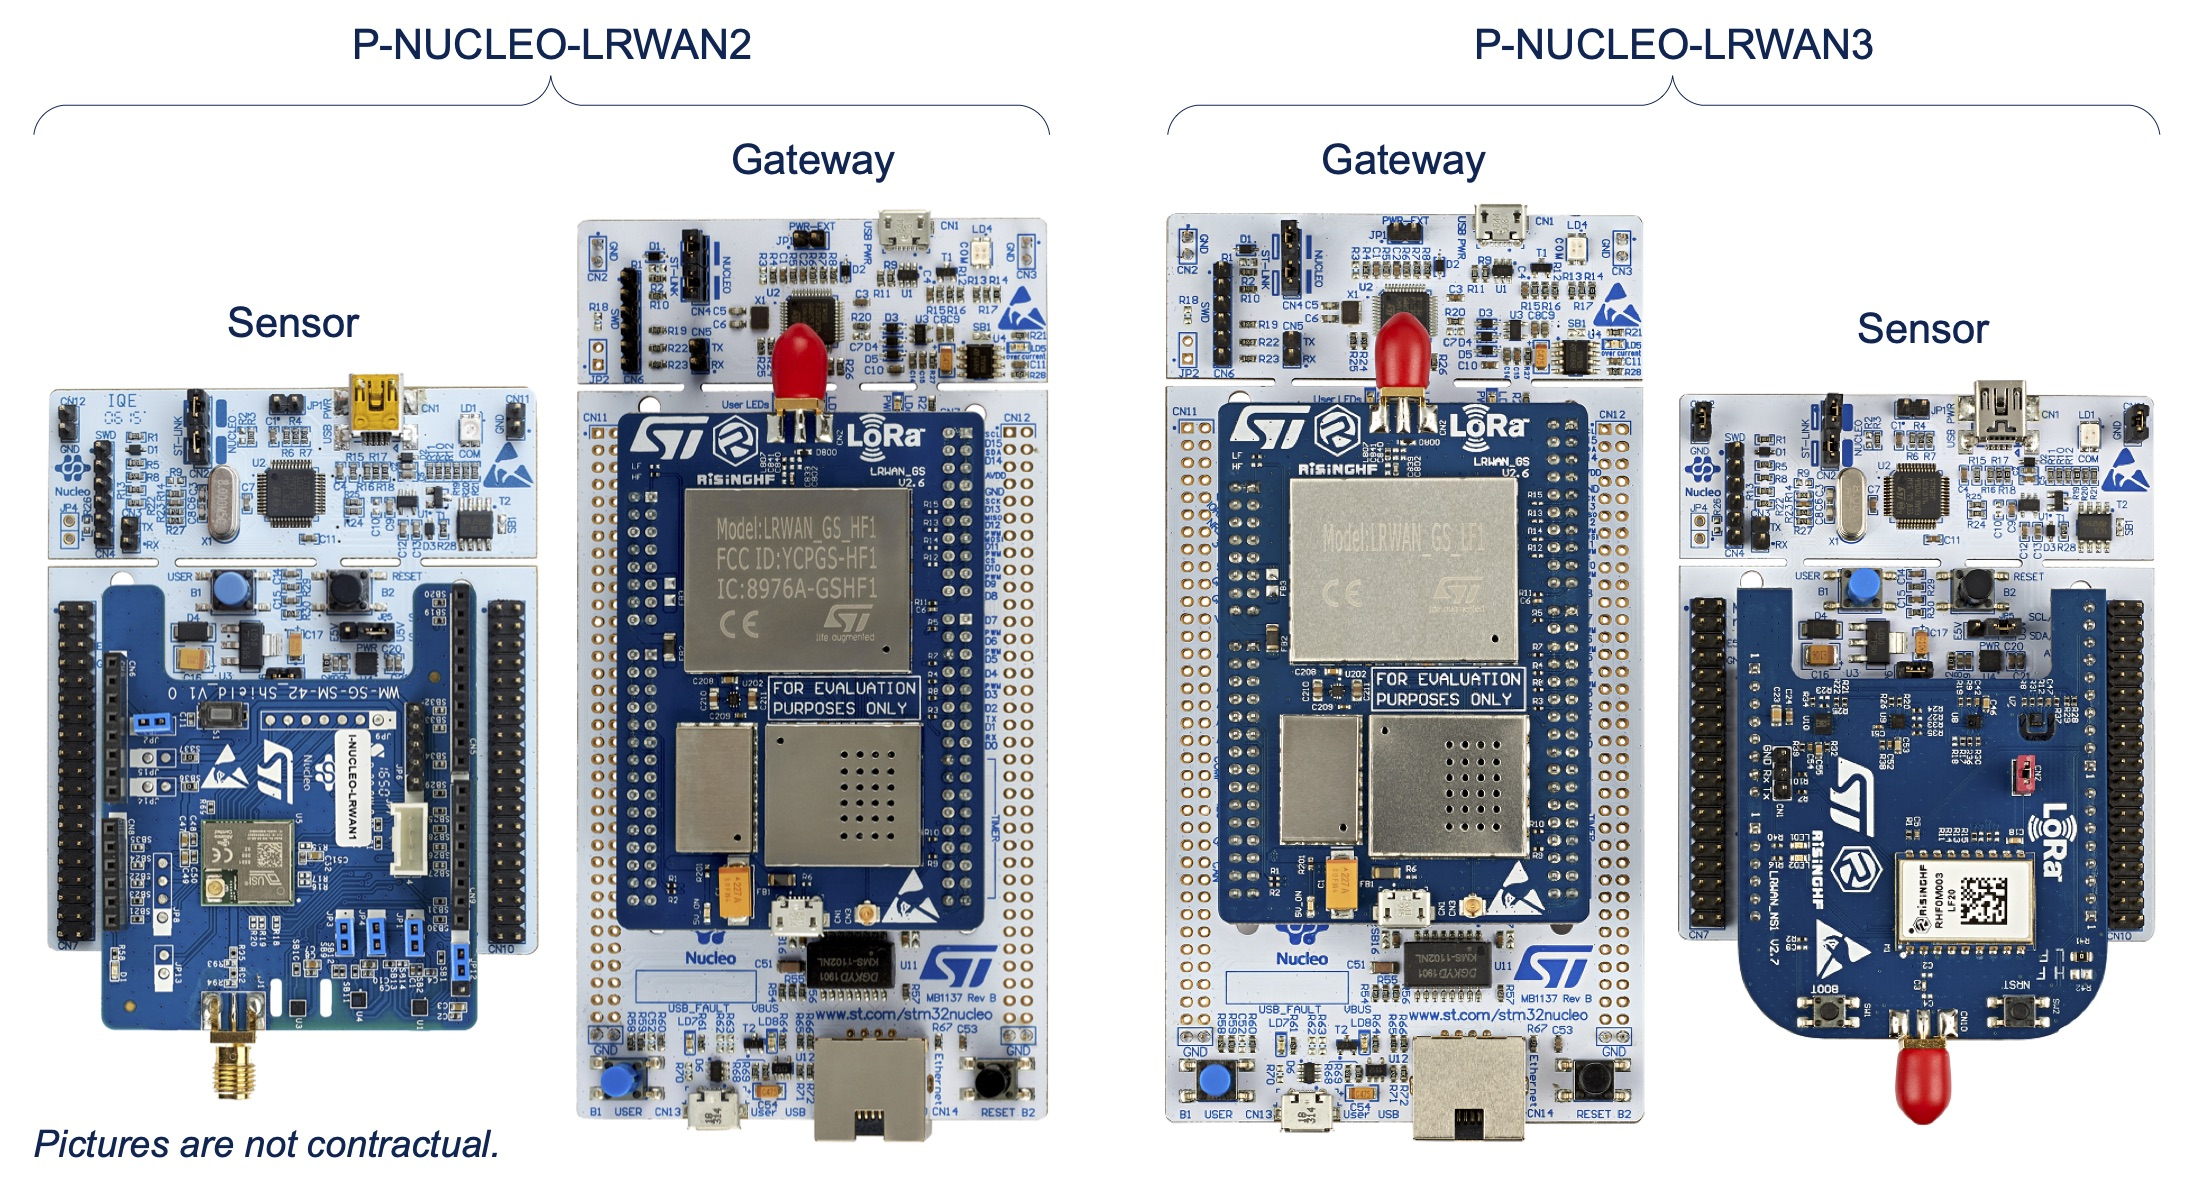
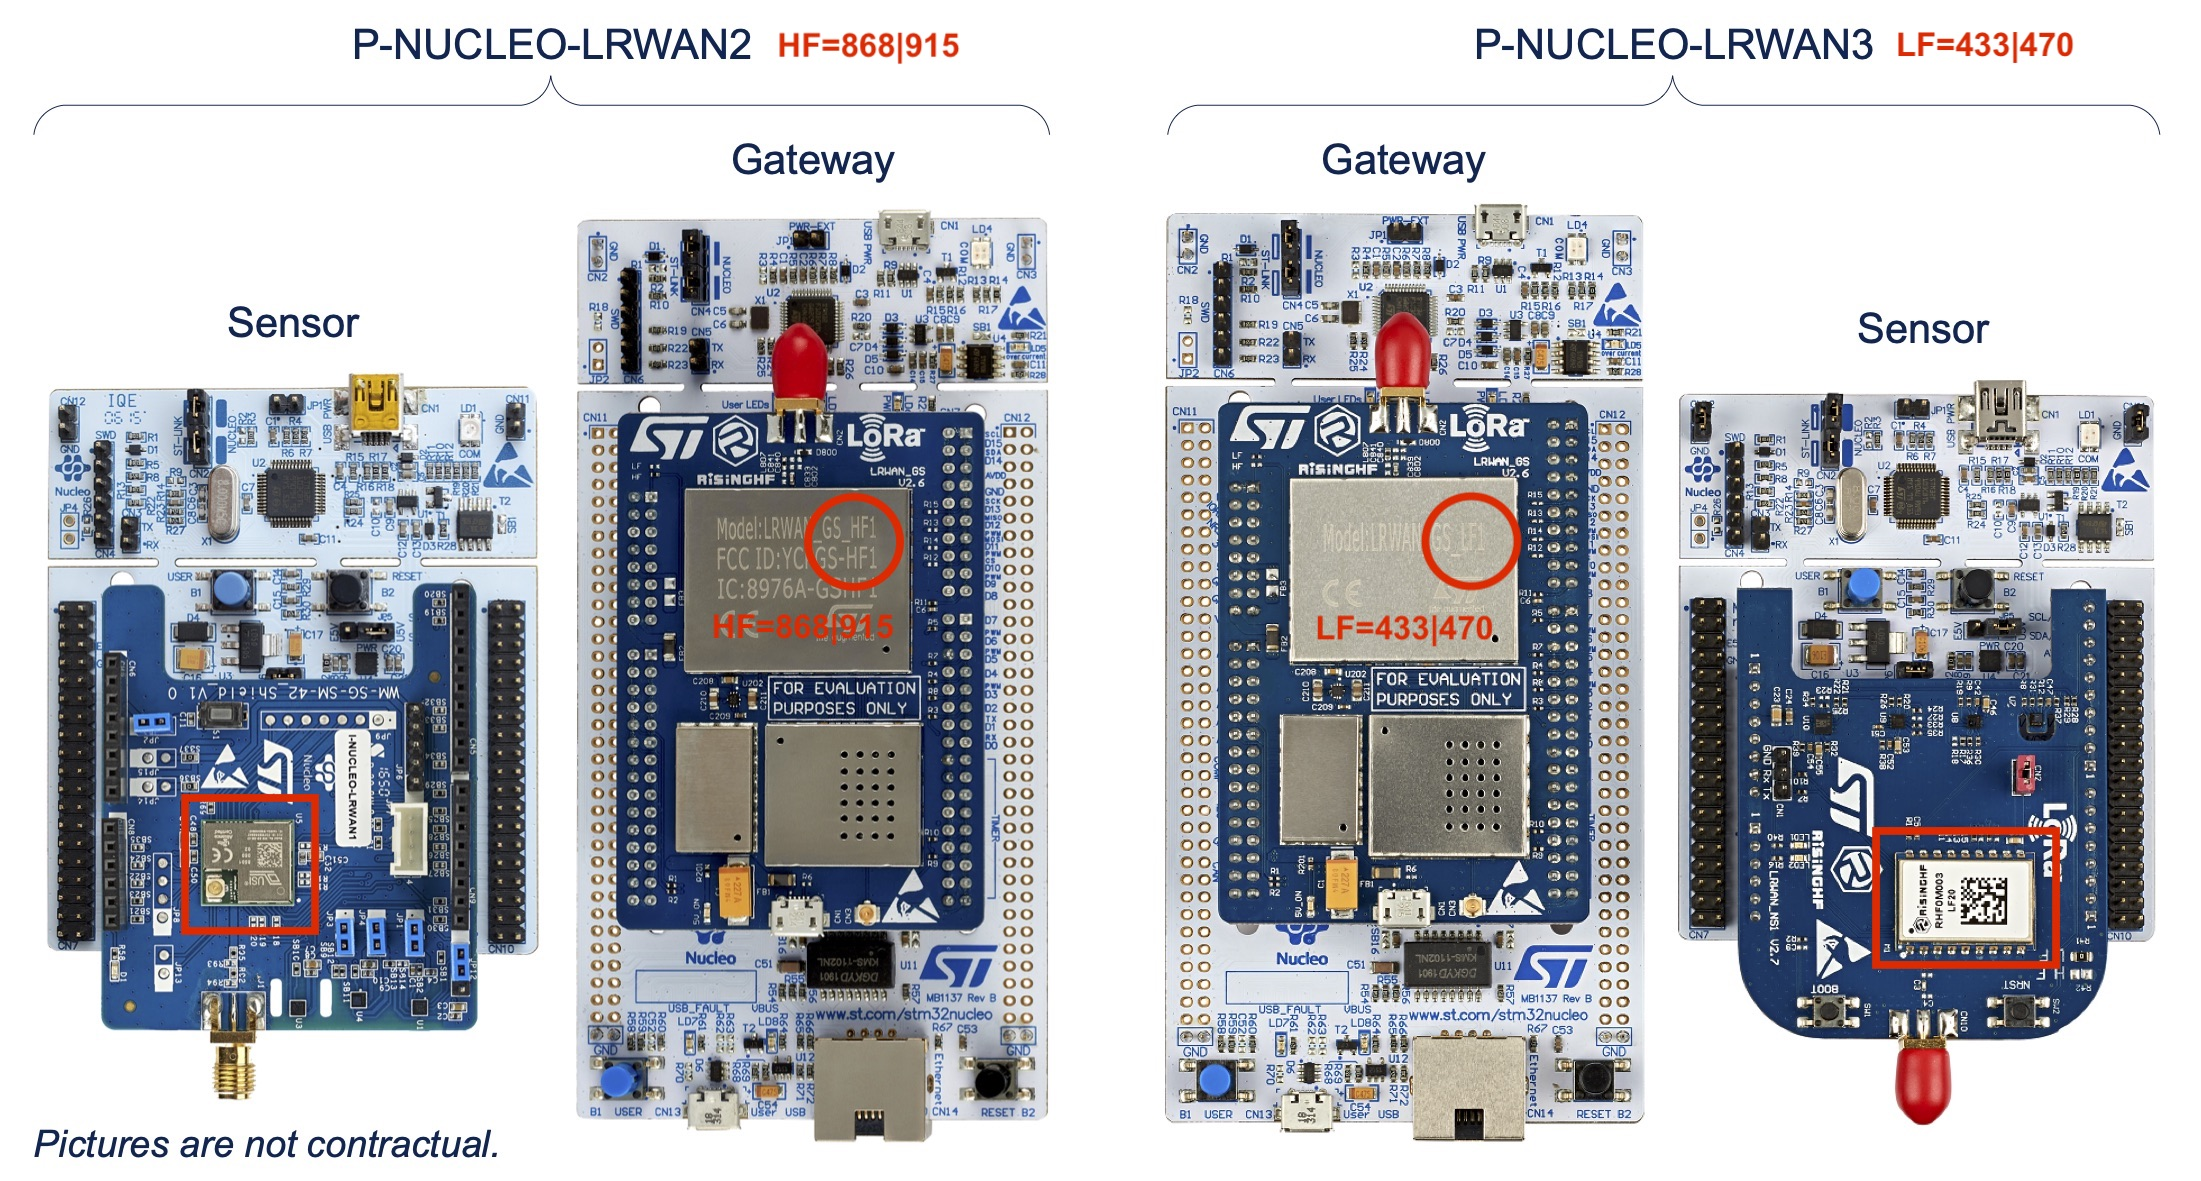
add ref to images; fix LTS

diff --git a/p-nucleo-lrwan/README.md b/p-nucleo-lrwan/README.md
@@ -26,6 +26,7 @@ Lancez `minicom -s` sur ce port avec la configuration suivante : `115200 8N1`.
 
 ![P-NUCLEO-LRWAN Branchement](./images/lrwan2-cables.png)
 
+> Attention: Ne tentez pas de configurer la gateway LRWAN2 (notée HF sur la carte LRWAN_GS_HF1) pour les bandes de fréquences 433MHz ou 470MHz
 
 ### Enregistrement de la gateway
 
@@ -150,31 +151,6 @@ AT+Baudrate AT command and logging UART interface baud rate.
 ```
 
 
-### Trace de réception des messages
-* `RX` affiche la trame LoRa recue.
-* `JUL` affiche le contenu du datagramme envoyé au network serveur.
-* `JDL` affiche le contenu du datagramme recu de network serveur.
-* `LTX` affiche la trame LoRa envoyée à un endpoint.
-* `LTS` affiche le ???.
- 
-
-```
-RX: 407BAD00FC800000088F8CC34CD1A913D9574AD997EC732B902412A00B77
-JUL: {"rxpk":[{"tmst":47323908,"chan":0,"rfch":0,"freq":433.175000,"stat":1,"modu":"LORA","datr":"SF9BW125","codr":"4/5","lsnr":11.5,"rssi":-28,"size":30,"data":"QHutAPyAAAAIj4zDTNGpE9lXStmX7HMrkCQSoA"}]}
-JDL: {"txpk":{"imme":false,"rfch":0,"powe":14,"ant":0,"brd":0,"tmst":48323908,"freq":433.175,"modu":"LORA","datr":"SF9BW125","codr":"4/5","ipol":true,"size":18,"data":"YHutAPyGAAADUv8AAQb6/Vlm"}}
-LTX: 607BAD00FC8600000352FF000106FAFD5966
-LTS: 47686199 48323908 637709
-...
-LRX: 407BAD00FC802F0008577306DBC51D660B627B4F8F0FD1F738979A452C5E
-JUL: {"rxpk":[{"tmst":925204115,"chan":1,"rfch":0,"freq":433.375000,"stat":1,"modu":"LORA","datr":"SF7BW125","codr":"4/5","lsnr":11.3,"rssi":-33,"size":30,"data":"QHutAPyALwAIV3MG28UdZgtie0+PD9H3OJeaRSxe"}]}
-LRX: 407BAD00FC80300008F0AE14EBB9E18174A2AD5807D8F7A0E8D93185D870
-JUL: {"rxpk":[{"tmst":944028803,"chan":0,"rfch":0,"freq":433.175000,"stat":1,"modu":"LORA","datr":"SF7BW125","codr":"4/5","lsnr":9.5,"rssi":-34,"size":30,"data":"QHutAPyAMAAI8K4U67nhgXSirVgH2Peg6Nkxhdhw"}]}
-LRX: 407BAD00FC8031000841FE2E9D0BF57386EA6514A6FFEA3C083110CF4F33
-JUL: {"rxpk":[{"tmst":962853363,"chan":0,"rfch":0,"freq":433.175000,"stat":1,"modu":"LORA","datr":"SF7BW125","codr":"4/5","lsnr":9.3,"rssi":-35,"size":30,"data":"QHutAPyAMQAIQf4unQv1c4bqZRSm/+o8CDEQz08z"}]}
-LRX: 407BAD00FC8032000892FF1918D8F185EED04A2442C055A3328D83639893
-JUL: {"rxpk":[{"tmst":981675995,"chan":0,"rfch":0,"freq":433.175000,"stat":1,"modu":"LORA","datr":"SF7BW125","codr":"4/5","lsnr":9.5,"rssi":-30,"size":30,"data":"QHutAPyAMgAIkv8ZGNjxhe7QSiRCwFWjMo2DY5iT"}]}
-```
-
 ### Perte ou mise à jour du firmware par défaut
 
 Afin d'éviter une perte du firmware, vous pouvez _dumper_ celui de votre carte avant son usage.
@@ -186,6 +162,10 @@ Vous pouvez aussi réinstaller celui-ci mis à disposition par [TTN](https://www
 ## Démarrage du kit I-NUCLEO-LRWAN1 (868 MHz)
 
 Le kit [I-NUCLEO-LRWAN1](https://www.st.com/en/evaluation-tools/i-nucleo-lrwan1.html) (carte Nucleo L073RZ et [modem USI LoRa](https://raw.githubusercontent.com/USIWP1Module/USI_I-NUCLEO-LRWAN1/master/WM-SG-SM-42%20AT%20Command%20Reference%20Manual%20rev.2.6_20200225.pdf) avec SX1272) est livré avec un firmware par défaut.
+
+
+![P-NUCLEO-LRWAN2 Endpoint Detail](./images/p-nucleo-lrwan2.png)
+
 
 DevEUI, AppEUI et AppKey sont inscrits sur une étiquette sur la face dessous de la carte Nucleo.
 
@@ -320,9 +300,45 @@ La gateway écoute et réponds désormais sur les canaux suivants.
 
 La gateway peut être enregistrée sur un network server configuré par la bande eu433.
 
+
+
+### Trace de réception des messages
+* `RX` affiche la trame LoRa recue.
+* `JUL` affiche le contenu du datagramme envoyé au network serveur.
+* `JDL` affiche le contenu du datagramme recu de network serveur.
+* `LTX` affiche la trame LoRa envoyée à un endpoint.
+* `LTS` affiche le timestamp interne au concentrateur
+ 
+
+```
+RX: 407BAD00FC800000088F8CC34CD1A913D9574AD997EC732B902412A00B77
+JUL: {"rxpk":[{"tmst":47323908,"chan":0,"rfch":0,"freq":433.175000,"stat":1,"modu":"LORA","datr":"SF9BW125","codr":"4/5","lsnr":11.5,"rssi":-28,"size":30,"data":"QHutAPyAAAAIj4zDTNGpE9lXStmX7HMrkCQSoA"}]}
+JDL: {"txpk":{"imme":false,"rfch":0,"powe":14,"ant":0,"brd":0,"tmst":48323908,"freq":433.175,"modu":"LORA","datr":"SF9BW125","codr":"4/5","ipol":true,"size":18,"data":"YHutAPyGAAADUv8AAQb6/Vlm"}}
+LTX: 607BAD00FC8600000352FF000106FAFD5966
+LTS: 47686199 48323908 637709
+...
+LRX: 407BAD00FC802F0008577306DBC51D660B627B4F8F0FD1F738979A452C5E
+JUL: {"rxpk":[{"tmst":925204115,"chan":1,"rfch":0,"freq":433.375000,"stat":1,"modu":"LORA","datr":"SF7BW125","codr":"4/5","lsnr":11.3,"rssi":-33,"size":30,"data":"QHutAPyALwAIV3MG28UdZgtie0+PD9H3OJeaRSxe"}]}
+LRX: 407BAD00FC80300008F0AE14EBB9E18174A2AD5807D8F7A0E8D93185D870
+JUL: {"rxpk":[{"tmst":944028803,"chan":0,"rfch":0,"freq":433.175000,"stat":1,"modu":"LORA","datr":"SF7BW125","codr":"4/5","lsnr":9.5,"rssi":-34,"size":30,"data":"QHutAPyAMAAI8K4U67nhgXSirVgH2Peg6Nkxhdhw"}]}
+LRX: 407BAD00FC8031000841FE2E9D0BF57386EA6514A6FFEA3C083110CF4F33
+JUL: {"rxpk":[{"tmst":962853363,"chan":0,"rfch":0,"freq":433.175000,"stat":1,"modu":"LORA","datr":"SF7BW125","codr":"4/5","lsnr":9.3,"rssi":-35,"size":30,"data":"QHutAPyAMQAIQf4unQv1c4bqZRSm/+o8CDEQz08z"}]}
+LRX: 407BAD00FC8032000892FF1918D8F185EED04A2442C055A3328D83639893
+JUL: {"rxpk":[{"tmst":981675995,"chan":0,"rfch":0,"freq":433.175000,"stat":1,"modu":"LORA","datr":"SF7BW125","codr":"4/5","lsnr":9.5,"rssi":-30,"size":30,"data":"QHutAPyAMgAIkv8ZGNjxhe7QSiRCwFWjMo2DY5iT"}]}
+```
+
+
+
+> Attention: Ne tentez pas de configurer la gateway LRWAN3 (notée LF sur la carte LRWAN_GS_LF1) pour les bandes de fréquences 868MHz ou 915MHz
+
+
 ## Démarrage du kit LRWAN_NS1 (433 MHz)
 
 Le kit ST Nucleo LoRa Sensor LRWAN_NS1 est basé sur la carte Nucleo-L073 et la carte fille ST Nucleo LoRa Sensor basé sur le module [RHF0M003](http://www.risinghf.com/#/product-details?product_id=4&lang=en) de RisingHF.
+
+
+![P-NUCLEO-LRWAN3 Endpoint Detail](./images/p-nucleo-lrwan3.png)
+
 
 Par défaut, ce kit est par défaut configuré sur la bande ISM chinoise (cn470). Il convient de reconfigurer ses canaux pour être conforme à la réglementation européene (ETSI eu433) conformément à la [documentation](https://www.st.com/resource/en/user_manual/dm00620948-getting-started-with-the-pnucleolrwan2-and-pnucleolrwan3-starter-packs-stmicroelectronics.pdf#page=28):
 - soit en reconstruisant le firmware 
